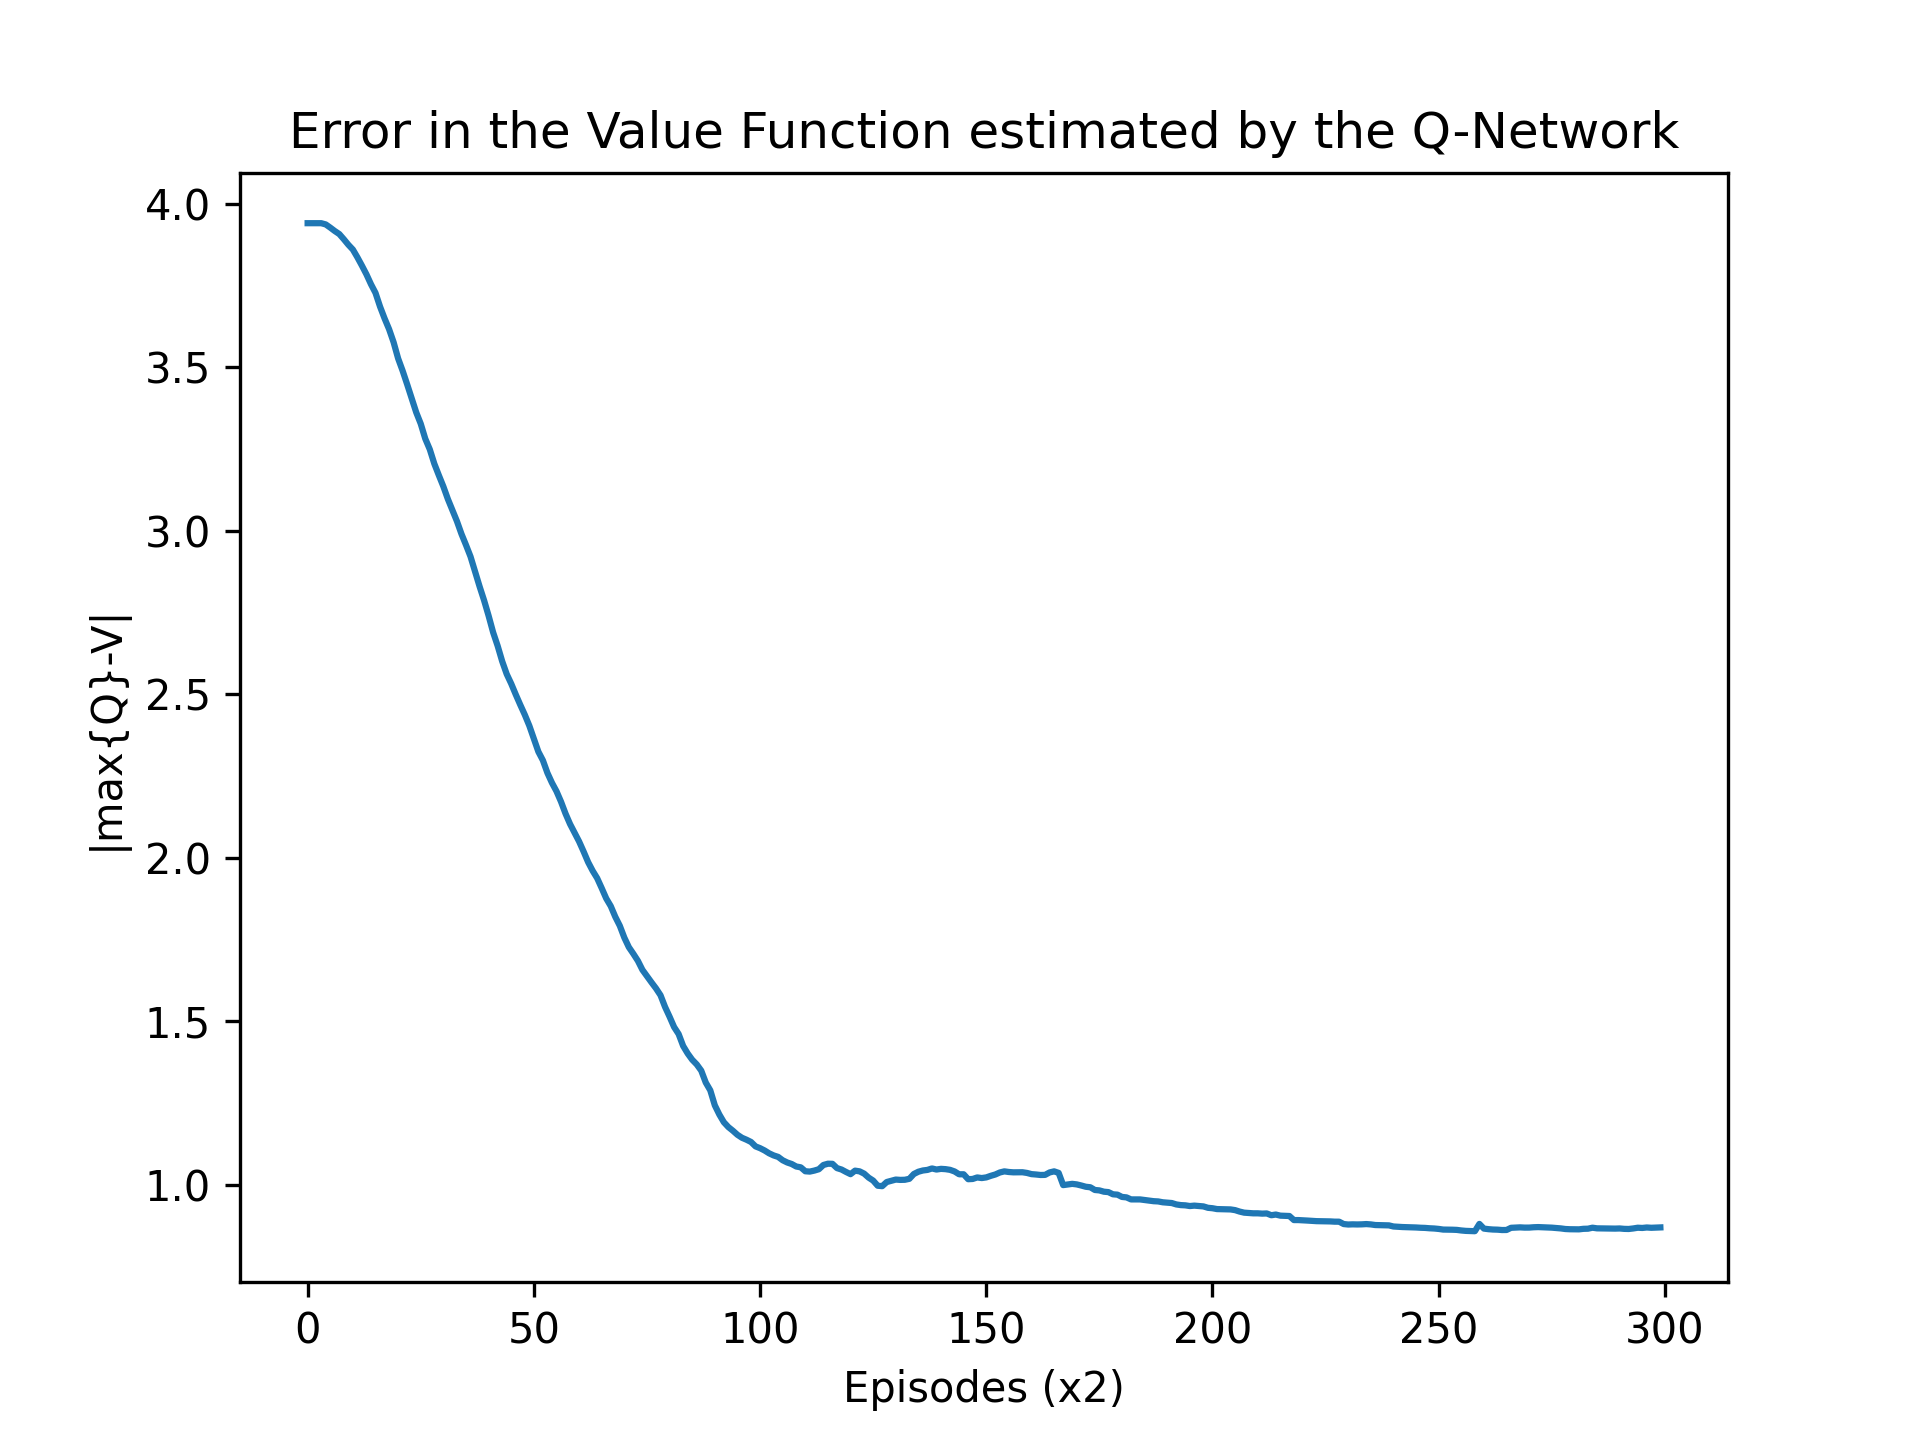
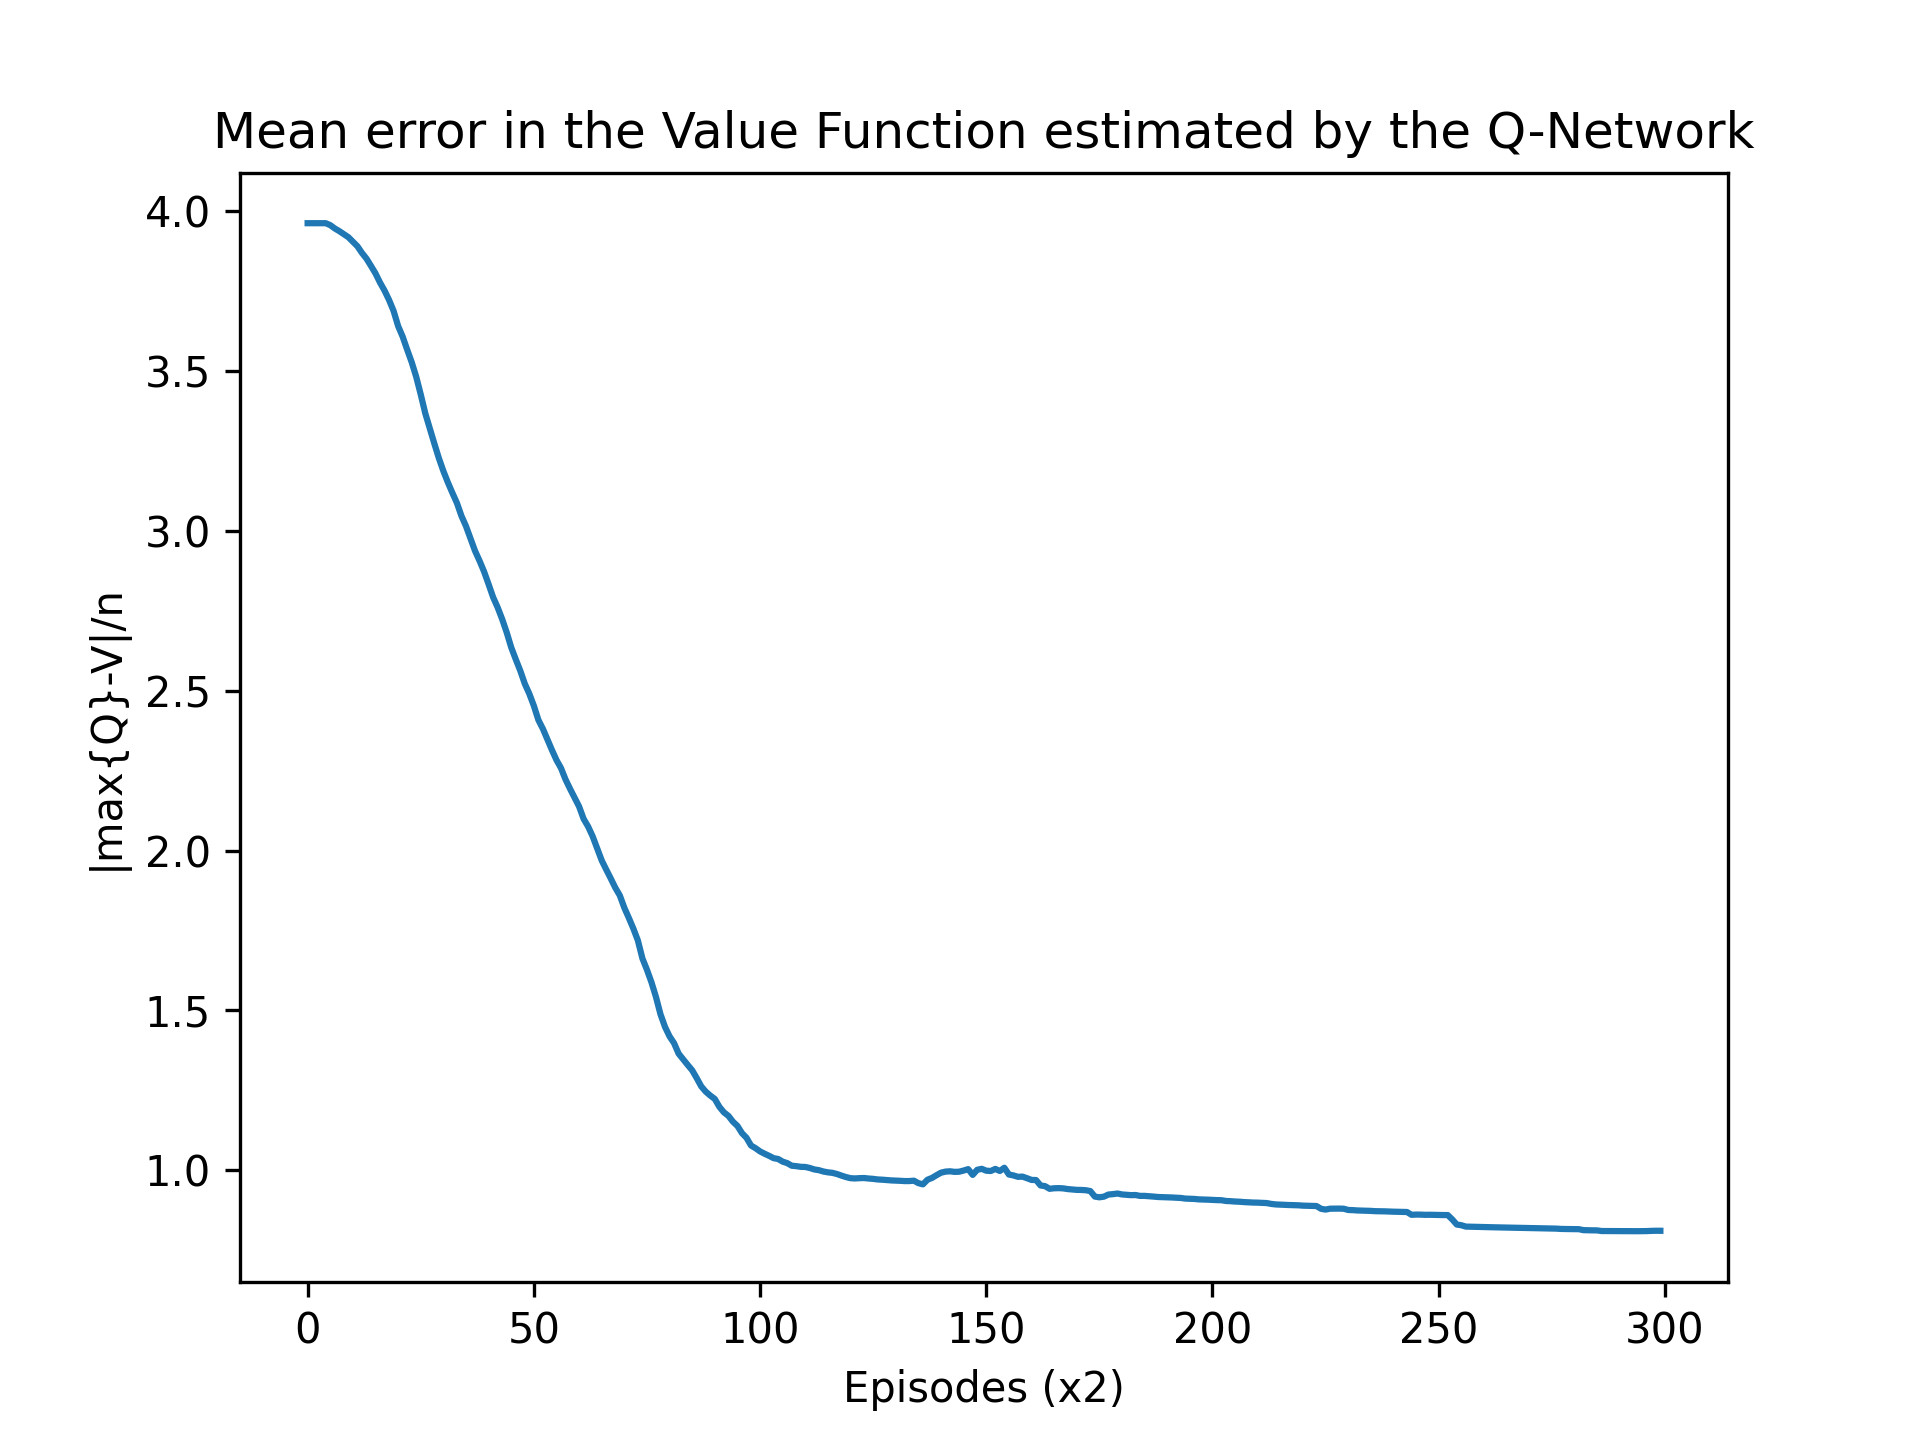
Swing_up_Pendulum
WIP
Swing up Pendulum simulation environment

diff --git a/Codes/Swing_up_Pendulum.py b/Codes/Swing_up_Pendulum.py
@@ -1,0 +1,92 @@
+import gymnasium as gym
+from gymnasium import spaces
+import numpy as np
+import math
+from scipy.integrate import solve_ivp
+from random import uniform
+
+class SwingUpPendulum(gym.Env):
+    metadata = {'render.modes': ['console']}
+    
+    def __init__(self):
+        super(SwingUpPendulum, self).__init__()
+        
+        # System parameters
+        self.m = 1.0    # mass
+        self.L = 1.0    # pendulum length
+        self.b = 0.01   # viscous friction coefficient
+        self.g = 9.8    # gravitational acceleration
+
+        # Time step
+        self.dt = 0.05
+
+        # Define action and observation space
+        # Control input u is bounded
+        self.action_space = spaces.Box(low=-10.0, high=10.0, shape=(1,), dtype=np.float32)
+        
+        # Observation: position and velocity
+        self.observation_space = spaces.Box(low=-np.inf, high=np.inf, shape=(2,), dtype=np.float32)
+
+        self.state = None
+        self.current_it = 0                         #current iteration updated in the reset and step functions
+        self.max_it = 800 * 0.05/self.dt
+
+
+    def reset(self, seed=None, options=None):
+        super().reset(seed=seed)
+        self.current_it = 0
+        angle = uniform(0.2, 0.2)
+        self.state = np.array([angle, 0.0], dtype=np.float32)  # initial position and velocity
+        return self.state, {}
+
+    def dynamics(self, t, y, u):
+        x1, x2 = y
+        dx1 = x2
+        dx2 = (u-self.b*x2)/(self.m*self.L**2)-self.g*math.sin(x1)/self.L
+        return [dx1, dx2]
+
+    def step(self, action):
+        self.current_it += 1
+        u = np.clip(action[0], self.action_space.low[0], self.action_space.high[0])
+        
+        # Integrate ODE
+        sol = solve_ivp(self.dynamics, [0, self.dt], self.state, args=(u,), t_eval=[self.dt])
+        
+        self.state = sol.y[:, -1]
+
+        # WrapToPi
+        positiveInput = self.state[0] > 0
+        self.state[0] = self.state[0] % 2*np.pi
+        if self.state[0]>0 and positiveInput:
+            self.state[0] = 2*np.pi
+
+        # Reward 
+        reward = -((np.pi-np.abs(self.state[0]))**2 + 0.2*self.state[1]**2)
+
+        if self.current_it >=self.max_it:
+            truncated = True
+            if -reward < 0.05:
+                terminated = True
+            else:
+                terminated = False
+        else:
+            truncated = False
+            truncated = False    
+
+        return self.state, reward, terminated, truncated, {}
+
+    def render(self):
+        print(f"Position: {self.state[0]:.2f}, Velocity: {self.state[1]:.2f}")
+
+    def close(self):
+        pass
+
+
+
+
+
+"""
+        t = state[0]
+        t_dot = state[1]
+        x_1 = np.array([1.0, 1.0, t**2, t, t_dot**2, t_dot, (u*t)**2, u*t, (u*t_dot)**2, u*t_dot], dtype=np.float32) #feature vector for the first stage
+ """

diff --git a/Codes/DQNxDP_Amatrix.py b/Codes/DQNxDP_Amatrix.py
@@ -280,10 +280,10 @@ plt.show()
 plt.ion()
 plt.plot(MSE_array)
 plt.xlabel(f'Episodes (x{decimation})')
-plt.ylabel('|max{Q}-V|')
-plt.title('Error in the Value Function estimated by the Q-Network')
+plt.ylabel('|max{Q}-V|/n')
+plt.title('Mean error in the Value Function estimated by the Q-Network')
 
-#plt.savefig('MSE_of_estimated_Value_Function.png', dpi=300)
+plt.savefig('MSE_of_estimated_Value_Function.png', dpi=300)
 
 x = input("Do you wish to save the policy network? y/n")
 
